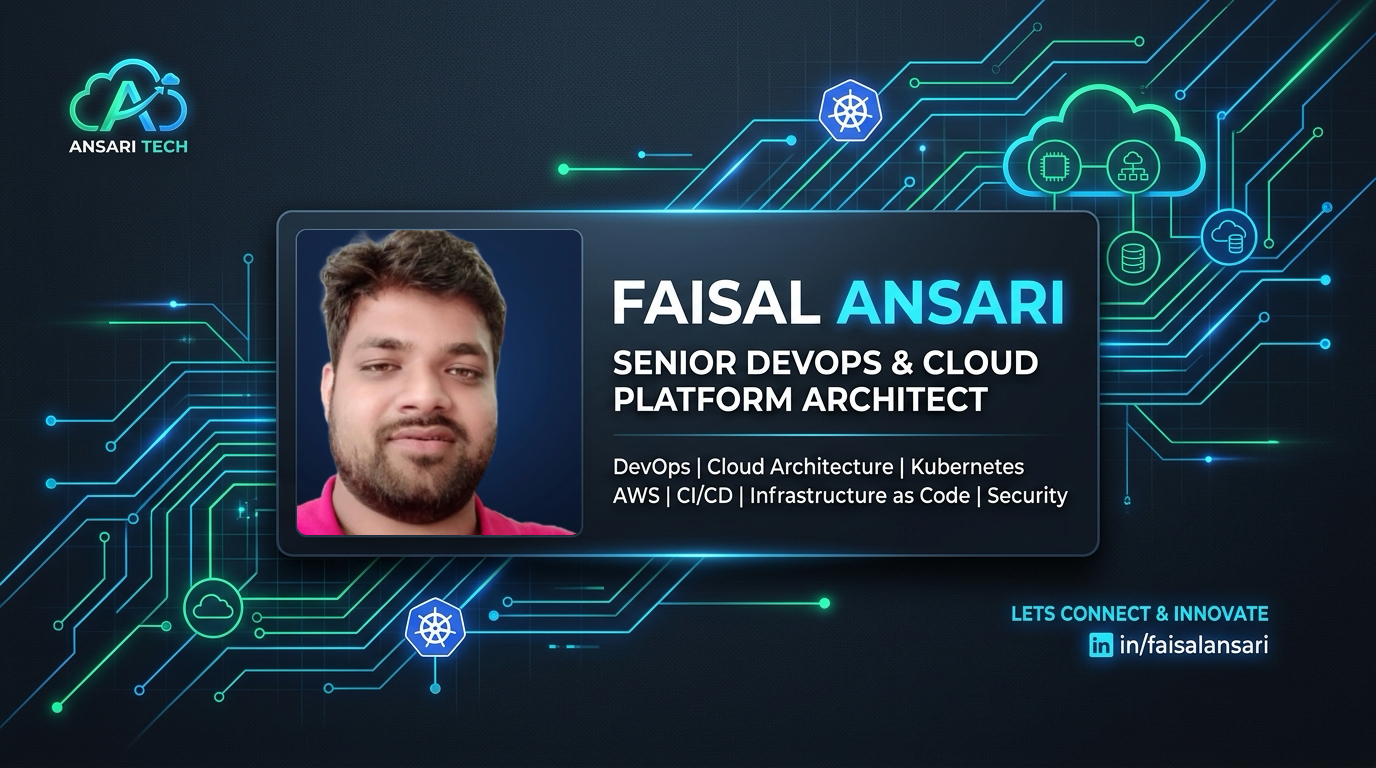
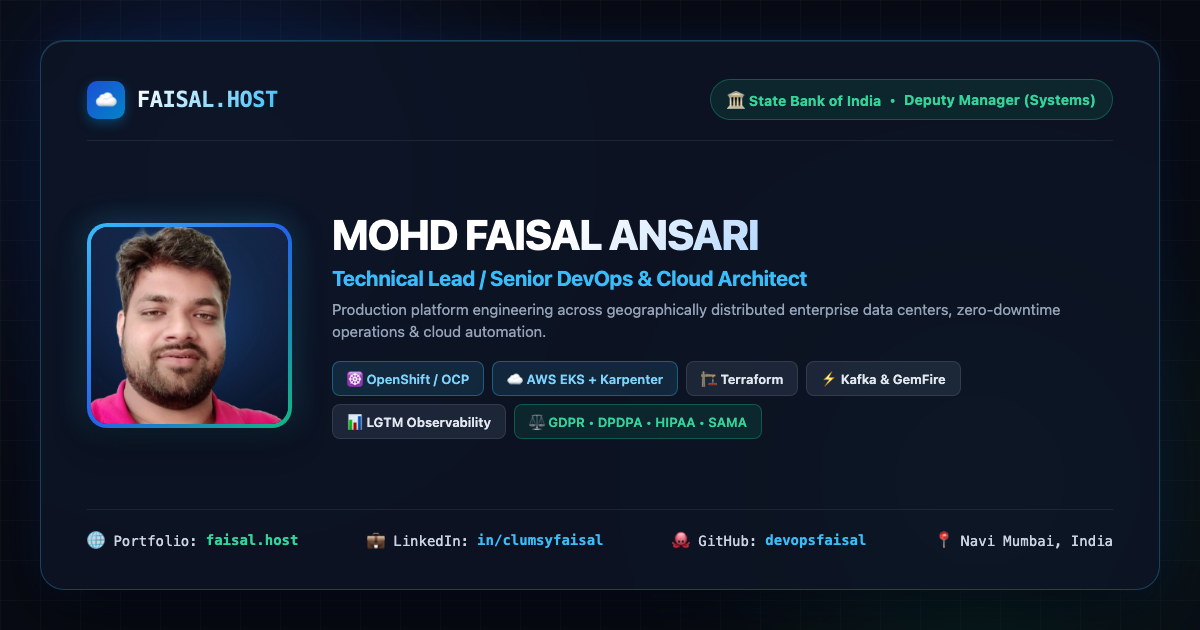
feat(branding): redesign og-preview with authentic FAISAL.HOST branding, real photo, and in/clumsyfaisal LinkedIn handle

diff --git a/index.html b/index.html
@@ -21,11 +21,11 @@
   <meta property="og:description"
     content="Operating high-throughput tier-1 banking systems at SBI, AWS EKS Karpenter, OpenShift, Kafka, GemFire, and global regulatory compliance.">
   <meta property="og:url" content="https://faisal.host/">
-  <meta property="og:image" content="https://faisal.host/assets/og-preview.png?v=2">
+  <meta property="og:image" content="https://faisal.host/assets/og-preview.png?v=3">
   <meta property="og:site_name" content="Faisal Ansari Portfolio">
   <meta property="profile:first_name" content="Mohd Faisal">
   <meta property="profile:last_name" content="Ansari">
-  <meta property="profile:username" content="devopsfaisal">
+  <meta property="profile:username" content="clumsyfaisal">
 
   <!-- Twitter / X Cards -->
   <meta name="twitter:card" content="summary_large_image">
@@ -34,7 +34,7 @@
   <meta name="twitter:title" content="Mohd Faisal Ansari — Technical Lead / Senior DevOps &amp; Cloud Architect">
   <meta name="twitter:description"
     content="Enterprise platform engineering, OpenShift at SBI, AWS EKS Karpenter, Kafka lag tuning, and DevSecOps pipelines.">
-  <meta name="twitter:image" content="https://faisal.host/assets/og-preview.png?v=2">
+  <meta name="twitter:image" content="https://faisal.host/assets/og-preview.png?v=3">
 
   <!-- Favicon and App Icons (with cache busting) -->
   <link rel="icon" type="image/svg+xml" href="assets/favicon.svg?v=6">
@@ -103,7 +103,7 @@
           "RBI Regulatory Requirements"
         ],
         "sameAs": [
-          "https://linkedin.com/in/faisal-ansari-173b2176",
+          "https://linkedin.com/in/clumsyfaisal",
           "https://github.com/devopsfaisal",
           "https://x.com/clumsyfaisal",
           "https://topmate.io/clumsyfaisal",
@@ -318,7 +318,7 @@
               </svg>
               GitHub
             </a>
-            <a href="https://linkedin.com/in/faisal-ansari-173b2176" target="_blank" class="btn btn-outline-primary"
+            <a href="https://linkedin.com/in/clumsyfaisal" target="_blank" class="btn btn-outline-primary"
               rel="noopener" title="LinkedIn Enterprise Profile">
               <svg class="btn-icon" viewBox="0 0 24 24" fill="currentColor">
                 <path
@@ -1740,7 +1740,7 @@
               style="padding: 0.35rem 0.8rem; font-size: 0.78rem;" title="GitHub Profile">
               <span>GitHub ↗</span>
             </a>
-            <a href="https://linkedin.com/in/faisal-ansari-173b2176" target="_blank" rel="noopener"
+            <a href="https://linkedin.com/in/clumsyfaisal" target="_blank" rel="noopener"
               class="btn btn-secondary btn-sm" style="padding: 0.35rem 0.8rem; font-size: 0.78rem;"
               title="LinkedIn Profile">
               <span>LinkedIn ↗</span>

diff --git a/js/terminal.js b/js/terminal.js
@@ -270,7 +270,7 @@ Faisal has embedded enterprise security and compliance guardrails across regulat
 - <span class="term-hl-dim">Direct Email:</span> <a href="mailto:hello@faisal.host" style="color:#38bdf8; text-decoration:underline; font-weight:600;">hello@faisal.host</a>
 - <span class="term-hl-dim">1:1 Mentorship:</span> <a href="https://topmate.io/clumsyfaisal" target="_blank" style="color:#c084fc; text-decoration:underline; font-weight:600;">topmate.io/clumsyfaisal</a> ↗ (Book Session)
 - <span class="term-hl-dim">GitHub Profile:</span> <a href="https://github.com/devopsfaisal" target="_blank" style="color:#38bdf8; text-decoration:underline; font-weight:600;">github.com/devopsfaisal</a> ↗ (Open-Source Repos)
-- <span class="term-hl-dim">LinkedIn:</span> <a href="https://linkedin.com/in/faisal-ansari-173b2176" target="_blank" style="color:#3b82f6; text-decoration:underline;">linkedin.com/in/faisal-ansari-173b2176</a> ↗
+- <span class="term-hl-dim">LinkedIn:</span> <a href="https://linkedin.com/in/clumsyfaisal" target="_blank" style="color:#3b82f6; text-decoration:underline;">linkedin.com/in/clumsyfaisal</a> ↗
 - <span class="term-hl-dim">X (Twitter):</span> <a href="https://x.com/clumsyfaisal" target="_blank" style="color:#e2e8f0; text-decoration:underline;">x.com/clumsyfaisal</a> ↗ (@clumsyfaisal)
 - <span class="term-hl-dim">Platform Status:</span> <a href="https://status.faisal.host" target="_blank" style="color:#10b981; text-decoration:underline; font-weight:600;">https://status.faisal.host</a> ↗ (Live SLA)
 - <span class="term-hl-dim">Engineering Blog:</span> <a href="https://blog.faisal.host" target="_blank" style="color:#38bdf8; text-decoration:underline; font-weight:600;">https://blog.faisal.host</a> ↗
@@ -324,10 +324,10 @@ URL: <a href="https://x.com/clumsyfaisal" target="_blank" style="color:#e2e8f0; 
     'faisal --x': () => commands['x'](),
 
     'linkedin': () => {
-      setTimeout(() => window.open('https://linkedin.com/in/faisal-ansari-173b2176', '_blank', 'noopener,noreferrer'), 400);
+      setTimeout(() => window.open('https://linkedin.com/in/clumsyfaisal', '_blank', 'noopener,noreferrer'), 400);
       return `
 <span class="term-hl-blue">★ Opening Faisal Ansari's LinkedIn Profile ★</span>
-URL: <a href="https://linkedin.com/in/faisal-ansari-173b2176" target="_blank" style="color:#3b82f6; text-decoration:underline; font-weight:700;">https://linkedin.com/in/faisal-ansari-173b2176</a> ↗
+URL: <a href="https://linkedin.com/in/clumsyfaisal" target="_blank" style="color:#3b82f6; text-decoration:underline; font-weight:700;">https://linkedin.com/in/clumsyfaisal</a> ↗
 <span class="term-hl-dim">Connect for enterprise cloud leadership, Staff/Lead DevOps roles, and technical collaborations.</span>
 `;
     },
